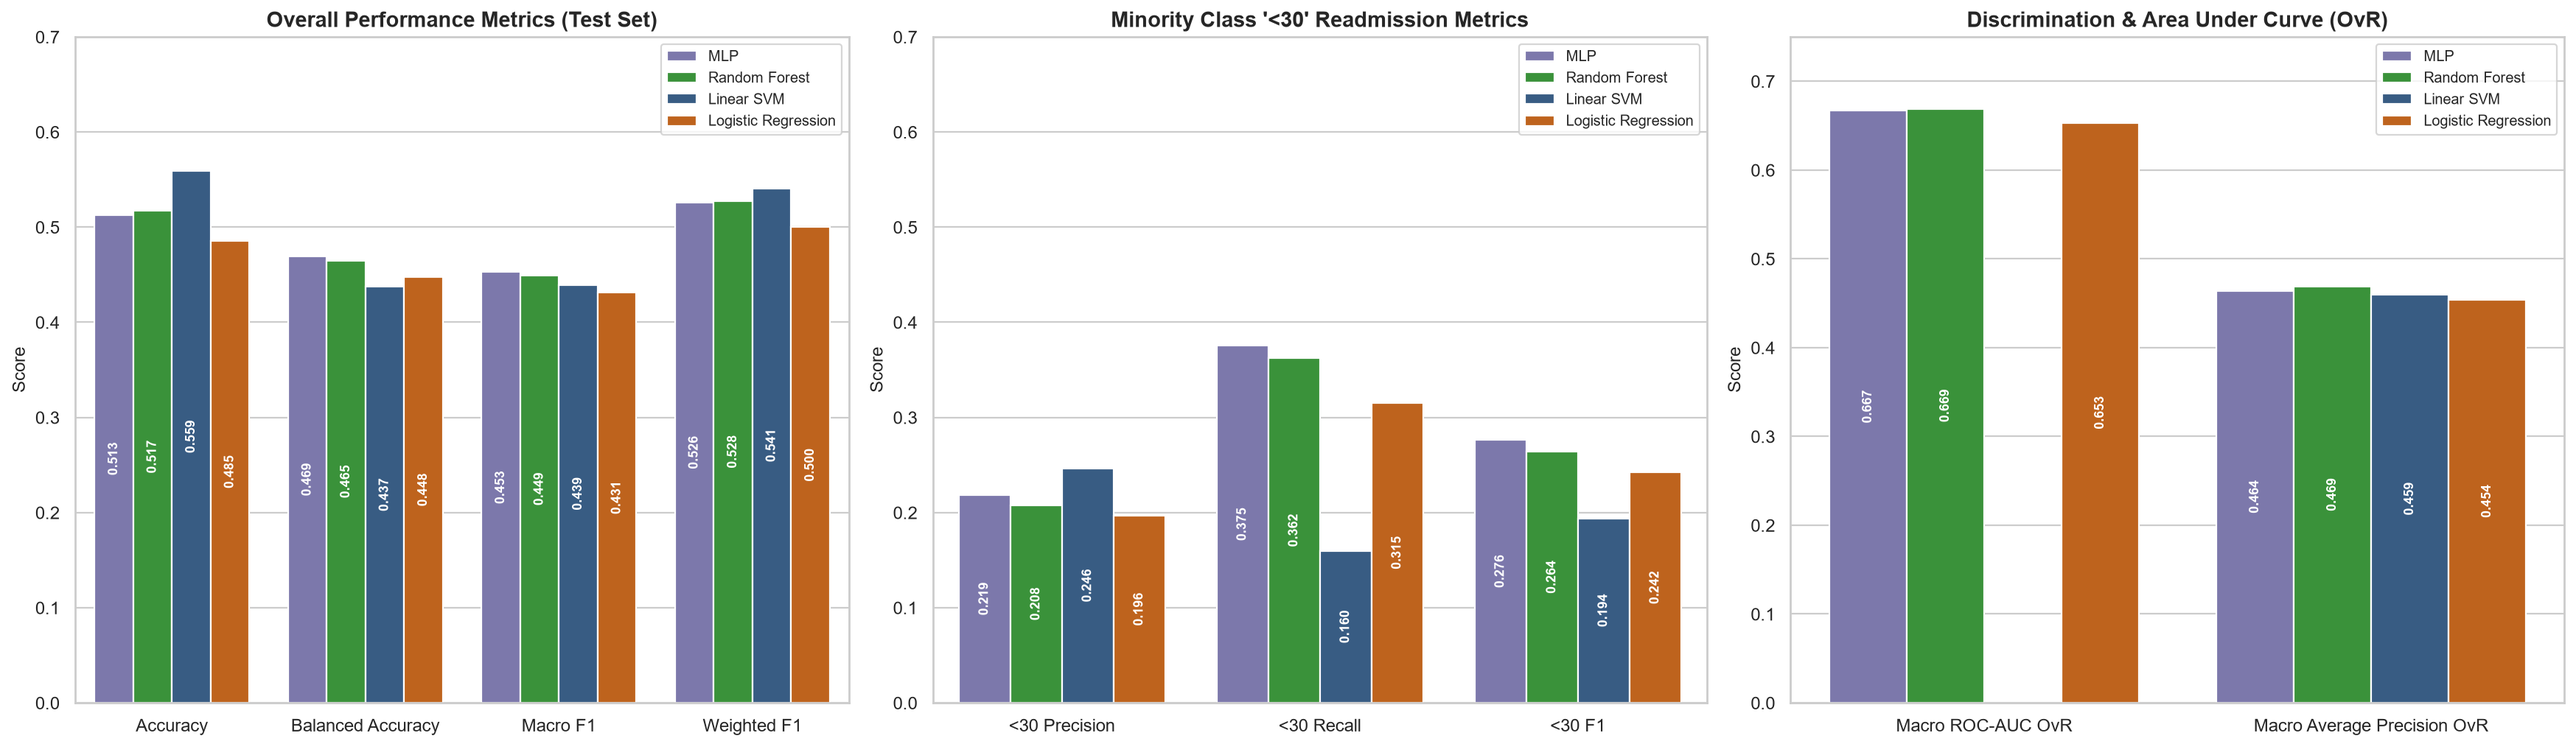
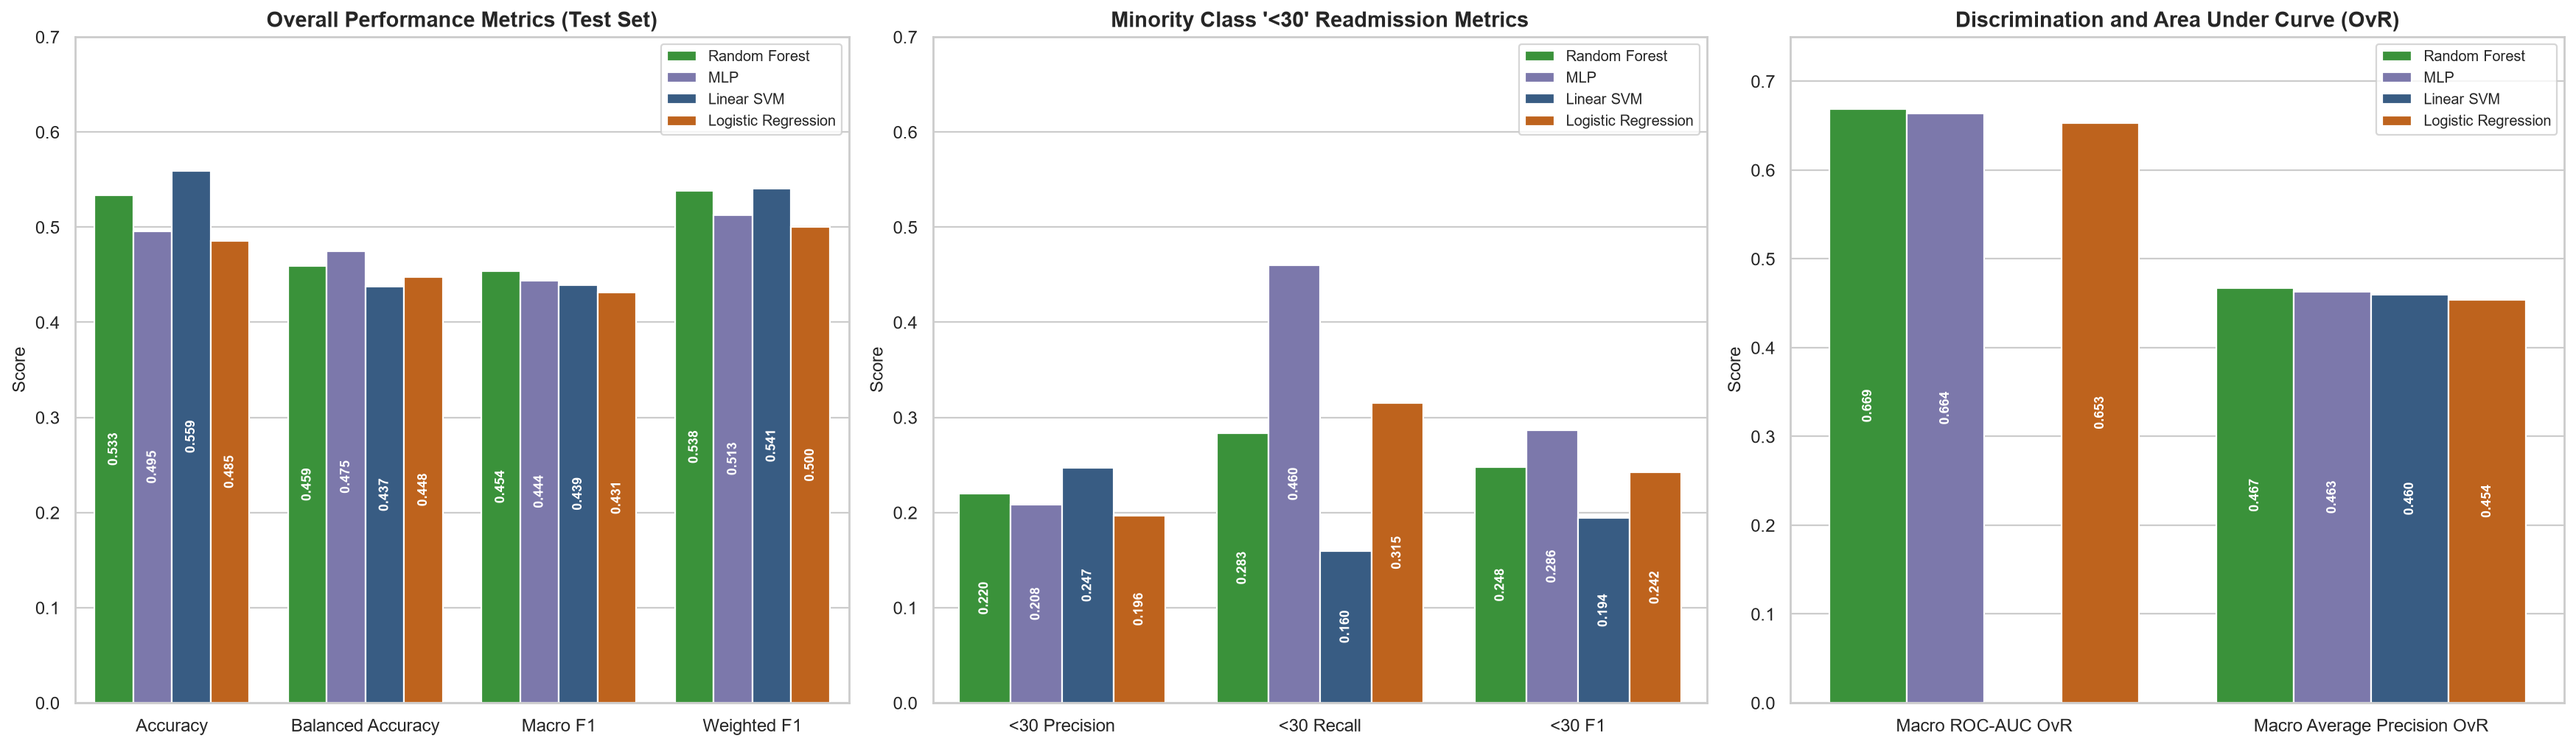
docs: update final experimental metrics, comparison figure, and sync results

diff --git a/README.md b/README.md
@@ -89,9 +89,9 @@ All four model paradigms were evaluated on the exact same held-out test partitio
 
 | Rank  | Model                   | Best Configuration                           | Test Accuracy | Balanced Accuracy | Test Macro-F1 | `<30` Recall |  `<30` F1  | Macro ROC-AUC |
 | :---: | :---------------------- | :------------------------------------------- | :-----------: | :---------------: | :-----------: | :----------: | :--------: | :-----------: |
-| **1** | **MLP (Deep Learning)** | 226-128-64-32-3 (BN, ReLU, Dropout)          |    0.5129     |    **0.4693**     |  **0.4526**   |  **0.3752**  | **0.2762** |    0.6669     |
-| **2** | **Random Forest**       | RF-8 (Trees=100, Depth=18, Leaf=5, Balanced) |    0.5170     |      0.4649       |    0.4494     |    0.3623    |   0.2642   |  **0.6691**   |
-| **3** | **Linear SVM**          | SVM-2 (Standard, No PCA, C=1, Balanced)      |  **0.5594**   |      0.4372       |    0.4393     |    0.1599    |   0.1939   |      N/A      |
+| **1** | **Random Forest**       | RF-8 (Trees=100, Depth=18, Leaf=5, Balanced) |    0.5332     |      0.4589       |  **0.4539**   |    0.2833    |   0.2476   |  **0.6688**   |
+| **2** | **MLP (Deep Learning)** | 226-128-64-32-3 (BN, ReLU, Dropout)          |    0.4955     |    **0.4747**     |    0.4439     |  **0.4600**  | **0.2864** |    0.6637     |
+| **3** | **Linear SVM**          | SVM-6 (Standard, No PCA, C=0.1, Balanced)    |  **0.5594**   |      0.4372       |    0.4393     |    0.1599    |   0.1940   |      N/A      |
 | **4** | **Logistic Regression** | LR-1 (Standard, No PCA, SAGA, Balanced)      |    0.4854     |      0.4477       |    0.4310     |    0.3153    |   0.2421   |    0.6533     |
 
 <p align="center">
@@ -113,10 +113,10 @@ All four model paradigms were evaluated on the exact same held-out test partitio
 
 ### Findings & Insights:
 
-1. **Overall Champion**: The **Multilayer Perceptron (MLP)** achieved the highest test Macro-F1 (**0.4526**) and Balanced Accuracy (**46.93%**), confirming that deep funnel architectures effectively capture non-linear clinical interactions.
-2. **Clinical Sensitivity**: The MLP caught **37.52%** of early readmissions (`<30`), higher than Random Forest (36.23%) and Linear SVM (15.99%).
-3. **Traditional ML Champion**: **Random Forest** is the leading traditional model, providing the highest probability discrimination (ROC-AUC 0.6691) and interpretable feature rankings.
-4. **Effect of PCA**: PCA consistently degraded performance across all models (e.g., Random Forest dropped from 0.4494 to 0.4074 with PCA 90%), demonstrating that sparse clinical signals are lost under linear compression.
+1. **Overall Champion & Ranking Discrimination**: **Random Forest** (RF-8) achieved the highest overall test Macro-F1 (**0.4539**) and highest probability ranking discrimination (Global Macro ROC-AUC **0.6688**), proving that bagged decision trees with axis-aligned splits effectively capture non-linear relationships across tabular clinical indicators.
+2. **Clinical Sensitivity Leader**: The **Multilayer Perceptron (MLP)** achieved the highest Balanced Accuracy (**47.47%**) and demonstrated the strongest early readmission sensitivity, capturing **46.00%** of high-risk patients (`<30`) with the highest minority-class F1-score (**0.2864**), substantially outperforming Random Forest (28.33%) and Linear SVM (15.99%) in detecting the most vulnerable patients.
+3. **Linear Baselines & Majority Bias**: **Linear SVM** scored the highest raw accuracy (**55.94%**) but suffered from high majority conservatism (`<30` recall only 15.99%), while **Logistic Regression** (SAGA) maintained a balanced sensitivity of 31.53% for early readmissions (Macro-F1 0.4310).
+4. **Effect of PCA**: PCA consistently degraded performance across all architectures (e.g., Random Forest dropped from 0.4553 in CV without PCA down to 0.4354 with PCA 95% and 0.4324 with PCA 90%), demonstrating that sparse clinical signals are lost under linear compression.
 
 ---
 
